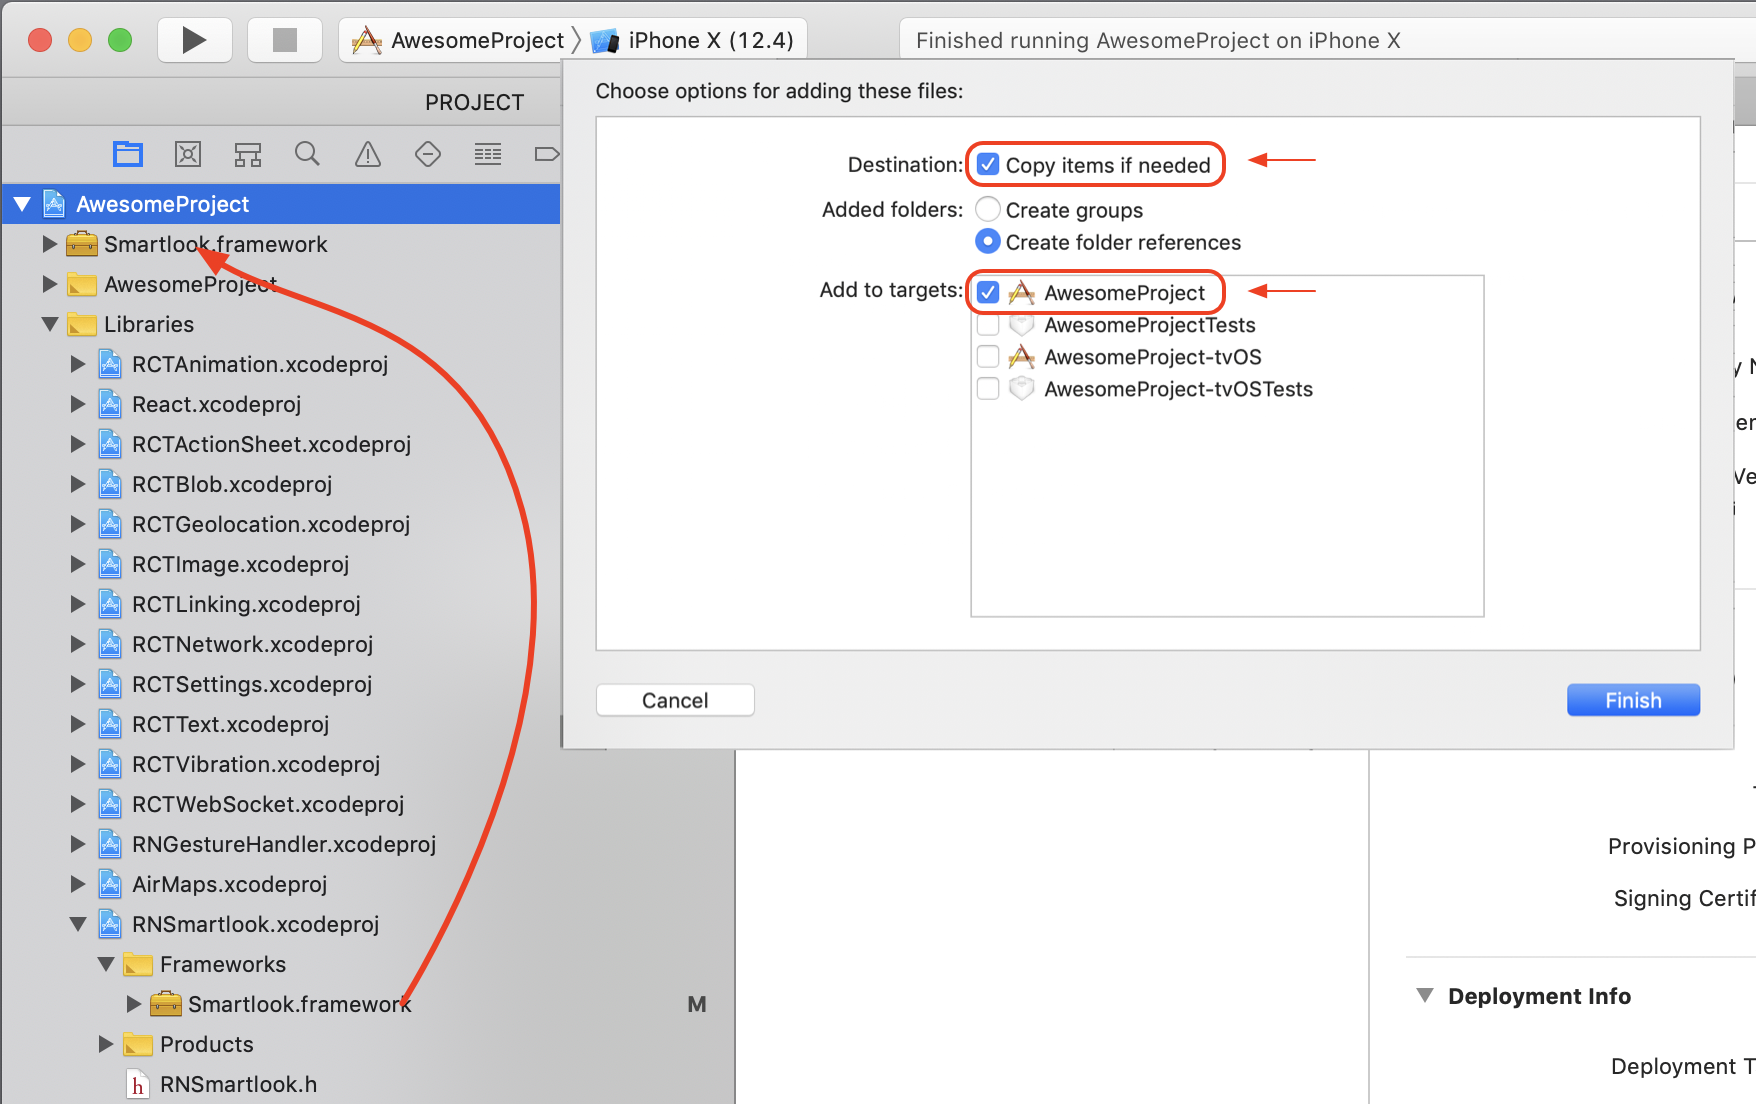
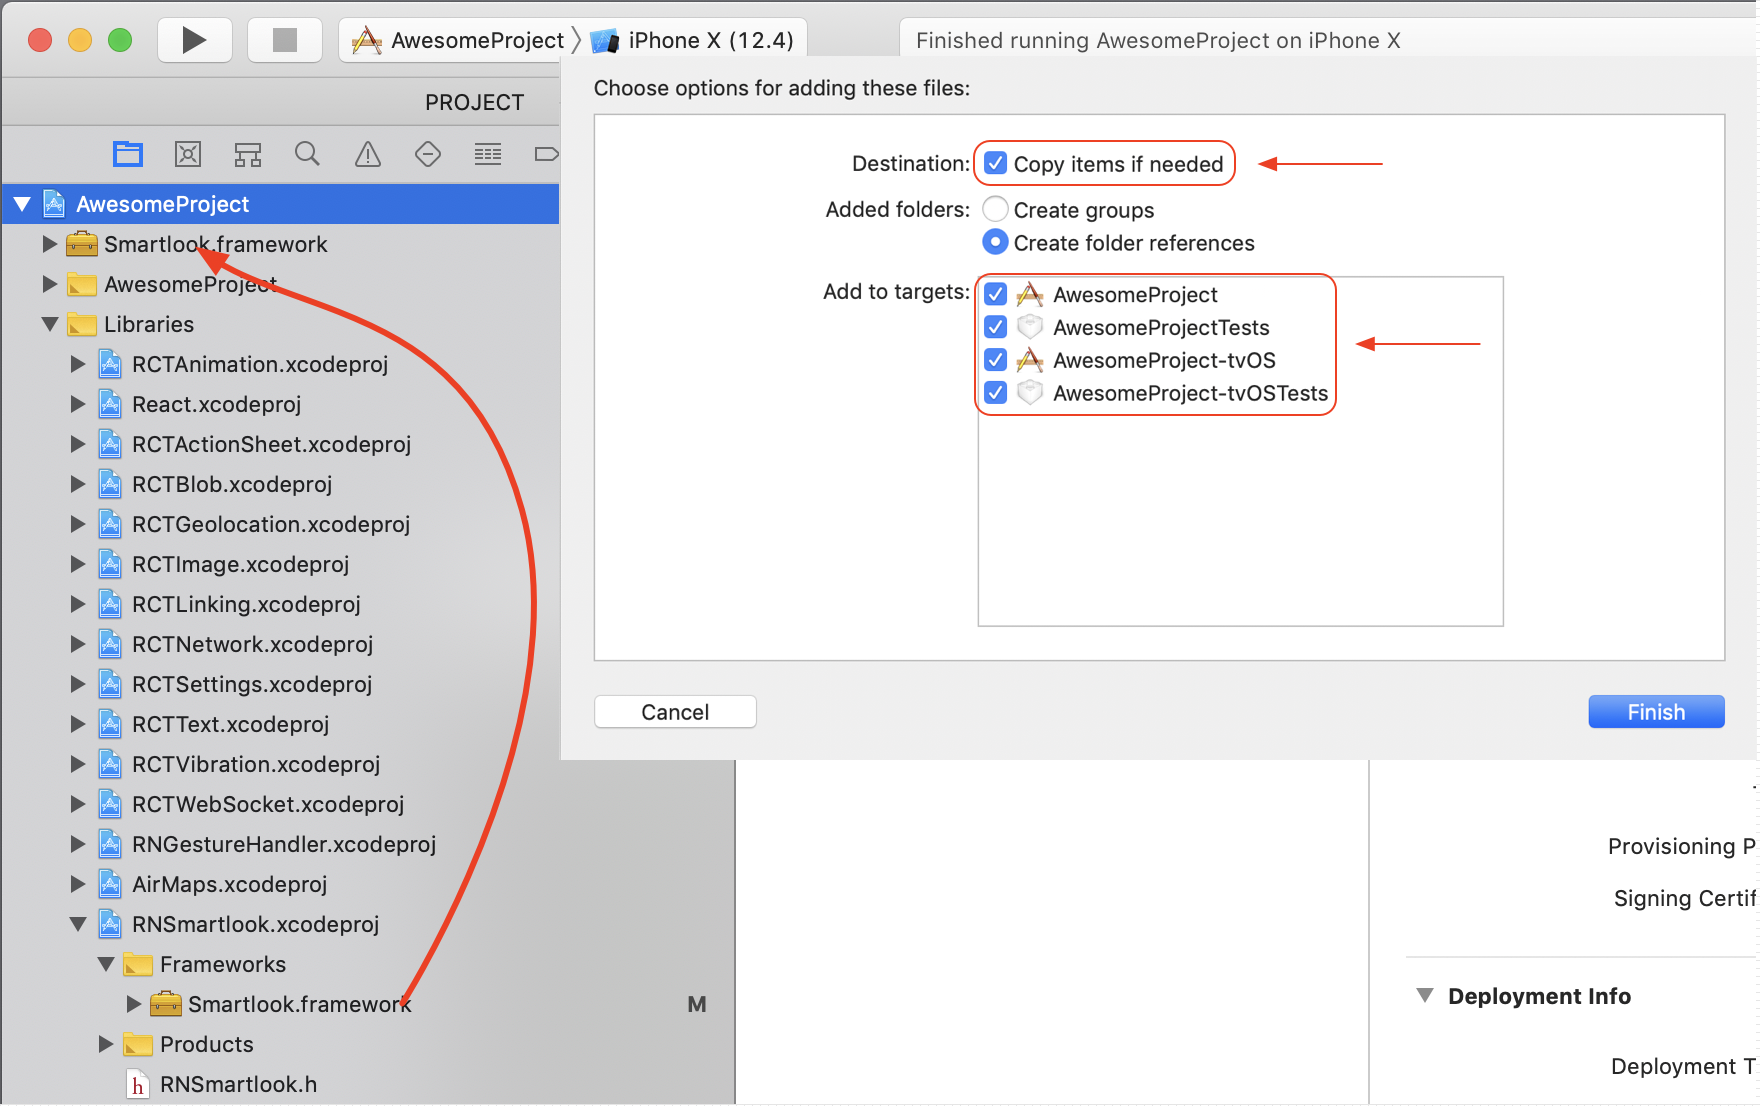
iOS project configuration clarification

diff --git a/_docs/sdk/react-native.md b/_docs/sdk/react-native.md
@@ -21,7 +21,7 @@ description: "This SDK offers several options to developers and/or companies."
 1. In your Xcode project, navigate to `Libraries/RNSmartlook.xcodeproj/Frameworks`.
 1. From there, drag the `Smartlook.framework` into your project. Make sure 
     - `Copy if needed` is checked
-    - the framework is included in your app target
+    - the framework is included in all project targets
 1. In the case you experience compile errors related to Smartlook (e.g., that Smartlook framework or some headers are missing), try
     - cleaning caches: `watchman watch-del-all; rm -rf ~/Library/Developer/Xcode/DerivedData`
     - relinking the bridge: `react-native unlink smartlook-react-native-wrapper; react-native link smartlook-react-native-wrapper`
